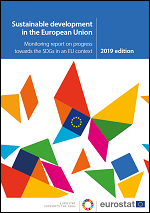
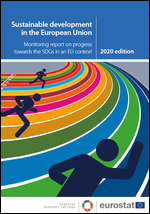
Aktualizacja zakładki Publikacje

diff --git a/_layouts/lay_api.html b/_layouts/lay_api.html
@@ -9,7 +9,7 @@ layout: page
   <h2 style="margin-top: 30px;">Application programming interface (API)</h2>
   <p>The SDG API (Application Programming Interface) allows to browse and download for further processing the full range of data and metadata for global and national indicators monitoring the Sustainable Development Goals (SDGs) of the 2030 Agenda in Poland.
     <br />The data is made available through REST API in JSON format.
-    The list below presents vailable web services provided as part of the API.
+    The list below presents available web services provided as part of the API.
   </p>
 {% else %}
   <h2 style="margin-top: 30px;">Interfejs programistyczny aplikacji (API)</h2>

diff --git a/_layouts/lay_api_custodian.html b/_layouts/lay_api_custodian.html
@@ -9,7 +9,7 @@ layout: page
   <h2 style="margin-top: 30px;">Application programming interface (API)</h2>
   <p>The SDG API (Application Programming Interface) allows to browse and download for further processing the full range of data and metadata for global and national indicators monitoring the Sustainable Development Goals (SDGs) of the 2030 Agenda in Poland.
     <br />The data is made available through REST API in JSON format.
-    The list below presents vailable web services provided as part of the API.
+    The list below presents available web services provided as part of the API.
   </p>
 {% else %}
   <h2 style="margin-top: 30px;">Interfejs programistyczny aplikacji (API)</h2>

diff --git a/en/o_sdg.md b/en/o_sdg.md
@@ -143,27 +143,27 @@ Poland presented its achievements at HLPF for the first time.
   <p><b>SDGs & me</b></p>
 
   <p>A new digital publication by Eurostat on the 2030 Agenda’s goals reaches out to a wide range of readers. Its intuitive nature and attractive layout encourage each and everyone to take a glance at the SDGs from the statistical point of view. <em>SDGs & me</em> presents progress towards 17 goals in the EU and its member countries by means of interactive visualizations. In order to assess progress in achieving the global goals, metrics from Eurostat’s SDG indicator set were used. The publication enables comparison of progress towards the SDGs between the countries and against the EU. It also makes it possible to guess trends for indicator values before their presentation on the chart.</p>
-
-  <p><b>Archive:</b></p>
-  <p><a target="_blank" href="https://ec.europa.eu/eurostat/cache/digpub/sdgs_2018/">SDGs & me – 2018 edition</a></p>
+  <br>
+  <br>
 
 
   <hr>
   <div class="image-wrapper">
-  <a target="_blank" href="https://ec.europa.eu/eurostat/documents/3217494/9940483/KS-02-19-165-EN-N.pdf/1965d8f5-4532-49f9-98ca-5334b0652820"><img src="{{ site.baseurl }}/assets/img/publikacje/4_sdg_in_ue.png" align="center" alt="GUS" border="0"/></a>
+  <a target="_blank" href="https://ec.europa.eu/eurostat/documents/3217494/11011074/KS-02-20-202-EN-N.pdf/334a8cfe-636a-bb8a-294a-73a052882f7f"><img src="{{ site.baseurl }}/assets/img/publikacje/4_sdg_in_ue.png" align="center" alt="GUS" border="0"/></a>
   </div>
   <p><b>Sustainable development in the European Union — Monitoring report on progress towards the SDGs in an EU context</b></p>
 
   <p>The publication, issued in 2017 by Eurostat, is a monitoring report on the progress towards achieving the Sustainable Development Goals in an EU context. This report describes progress made using a set of 100 indicators that are structured along the 17 SDGs. Two periods are considered: the short term, accounting for progress over the past five years, and the long term, looking at the trends over the last 15 years.
   <br><br><br></p>
   <p><b>Archive:</b></p>
-  <p><a target="_blank" href="https://ec.europa.eu/eurostat/web/products-statistical-books/-/KS-01-18-656">Monitoring report on progress towards the SDGs in an EU context</a></p>  
-  <p><a target="_blank" href="https://ec.europa.eu/eurostat/web/products-statistical-books/-/KS-04-17-780?inheritRedirect=true&redirect=%2Feurostat%2Fweb%2Fsdi%2Fpublications">Monitoring report on progress towards the SDGs in an EU context</a></p>  
+  <p><a target="_blank" href="https://ec.europa.eu/eurostat/documents/3217494/9940483/KS-02-19-165-EN-N.pdf/1965d8f5-4532-49f9-98ca-5334b0652820">Monitoring report on progress towards the SDGs in an EU context - 2019 edition</a></p>  
+  <p><a target="_blank" href="https://ec.europa.eu/eurostat/web/products-statistical-books/-/KS-01-18-656">Monitoring report on progress towards the SDGs in an EU context - 2018 edition</a></p>  
+  <p><a target="_blank" href="https://ec.europa.eu/eurostat/web/products-statistical-books/-/KS-04-17-780?inheritRedirect=true&redirect=%2Feurostat%2Fweb%2Fsdi%2Fpublications">Monitoring report on progress towards the SDGs in an EU context - 2017 edition</a></p>  
 
 
   <hr>
   <div class="image-wrapper">
-      <a target="_blank" href="https://ec.europa.eu/eurostat/documents/4031688/9925908/KS-02-19-166-EN-N.pdf/e985fa37-b510-4cae-b30e-c247989163d9"><img src="{{ site.baseurl }}/assets/img/publikacje/5_sdg_in_ue.png" align="center" alt="GUS" border="0"/></a>
+      <a target="_blank" href="https://ec.europa.eu/eurostat/documents/4031688/11010788/KS-01-20-192-EN-N.pdf/ae63aff0-a6f3-1d47-da83-c6886b9daaab"><img src="{{ site.baseurl }}/assets/img/publikacje/5_sdg_in_ue.png" align="center" alt="GUS" border="0"/></a>
   </div>
   <p><b>Sustainable development in the European Union – Overview of progress towards the SDGs in an EU context</b></p>
 
@@ -171,8 +171,9 @@ Poland presented its achievements at HLPF for the first time.
 
   <br><br><br></p>
   <p><b>Archive:</b></p>
-  <p><a target="_blank" href="https://ec.europa.eu/eurostat/en/web/products-catalogues/-/KS-02-18-827">Sustainable development in the European Union – Overview of progress towards the SDGs in an EU context</a></p>
-  <p><a target="_blank" href="https://ec.europa.eu/eurostat/web/products-catalogues/-/KS-01-17-796?inheritRedirect=true&redirect=%2Feurostat%2Fweb%2Fsdi%2Fpublications">Sustainable development in the European Union – Overview of progress towards the SDGs in an EU context</a></p>
+  <p><a target="_blank" href="https://ec.europa.eu/eurostat/documents/4031688/9925908/KS-02-19-166-EN-N.pdf/e985fa37-b510-4cae-b30e-c247989163d9">Sustainable development in the European Union – Overview of progress towards the SDGs in an EU context - 2019 edition</a></p>
+  <p><a target="_blank" href="https://ec.europa.eu/eurostat/en/web/products-catalogues/-/KS-02-18-827">Sustainable development in the European Union – Overview of progress towards the SDGs in an EU context - 2018 edition</a></p>
+  <p><a target="_blank" href="https://ec.europa.eu/eurostat/web/products-catalogues/-/KS-01-17-796?inheritRedirect=true&redirect=%2Feurostat%2Fweb%2Fsdi%2Fpublications">Sustainable development in the European Union – Overview of progress towards the SDGs in an EU context - 2017 edition</a></p>
 
   <hr>
   <div class="image-wrapper">

diff --git a/o_sdg.md b/o_sdg.md
@@ -138,27 +138,26 @@ Krajowe dobrowolne przeglądy (Voluntary National Review) są organizowane coroc
   <p><b>SDGs & me</b></p>
 
   <p>Nowa cyfrowa publikacja Eurostatu nt. celów Agendy 2030 adresowana jest do szerokiego grona odbiorców. Jej intuicyjny charakter i atrakcyjna forma zachęcą każdego do spojrzenia na SDGs z punktu widzenia statystyki. <em>SDGs & me</em> prezentuje postępy całej UE oraz poszczególnych krajów członkowskich we wdrażaniu 17 celów za pomocą interaktywnych wizualizacji. Do oceny realizacji celów globalnych wykorzystano wybrane wskaźniki SDG z zestawu opracowanego przez Eurostat dla Unii Europejskiej. Publikacja umożliwia porównywanie postępów w osiąganiu SDGs między krajami oraz na tle UE. Pozwala także na prognozowanie trendów dla wybranych mierników przed ich zaprezentowaniem na wykresie.</p>
-
-  <p><b>Archiwum:</b></p>
-  <p><a target="_blank" href="https://ec.europa.eu/eurostat/cache/digpub/sdgs/">SDGs & me – Edycja 2018 </a></p>
+  <br>
 
 
   <hr>
   <div class="image-wrapper">
-      <a target="_blank" href="https://ec.europa.eu/eurostat/documents/3217494/9940483/KS-02-19-165-EN-N.pdf/1965d8f5-4532-49f9-98ca-5334b0652820"><img src="{{ site.baseurl }}/assets/img/publikacje/4_sdg_in_ue.png" align="center" alt="GUS" border="0"/></a>
+      <a target="_blank" href="https://ec.europa.eu/eurostat/documents/3217494/11011074/KS-02-20-202-EN-N.pdf/334a8cfe-636a-bb8a-294a-73a052882f7f"><img src="{{ site.baseurl }}/assets/img/publikacje/4_sdg_in_ue.png" align="center" alt="GUS" border="0"/></a>
   </div>
   <p><b>Sustainable development in the European Union — Monitoring report on progress towards the SDGs in an EU context</b></p>
 
   <p>Wydawana od 2017 r. publikacja Eurostatu będąca raportem monitorującym postęp w kierunku osiągnięcia Celów Zrównoważonego Rozwoju w kontekście UE. Raport opisuje i analizuje dokonany postęp przy wykorzystaniu zestawu 100 wskaźników, przyporządkowanych do poszczególnych celów SDG. Analizie poddane są dwa okresy: krótki, uwzględniający postęp dokonany w ciągu ostatnich 5 lat oraz długi, obejmujący tendencje z ostatnich 15 lat.
   <br><br><br></p>
   <p><b>Archiwum:</b></p>
+  <p><a target="_blank" href="https://ec.europa.eu/eurostat/documents/3217494/9940483/KS-02-19-165-EN-N.pdf/1965d8f5-4532-49f9-98ca-5334b0652820">Monitoring report on progress towards the SDGs in an EU context – Edycja 2019</a></p>
   <p><a target="_blank" href="https://ec.europa.eu/eurostat/web/products-statistical-books/-/KS-01-18-656">Monitoring report on progress towards the SDGs in an EU context – Edycja 2018</a></p>
   <p><a target="_blank" href="https://ec.europa.eu/eurostat/web/products-statistical-books/-/KS-04-17-780?inheritRedirect=true&redirect=%2Feurostat%2Fweb%2Fsdi%2Fpublications">Monitoring report on progress towards the SDGs in an EU context – Edycja 2017</a></p>  
 
 
   <hr>
   <div class="image-wrapper">
-      <a target="_blank" href="https://ec.europa.eu/eurostat/documents/4031688/9925908/KS-02-19-166-EN-N.pdf/e985fa37-b510-4cae-b30e-c247989163d9"><img src="{{ site.baseurl }}/assets/img/publikacje/5_sdg_in_ue.png" align="center" alt="GUS" border="0"/></a>
+      <a target="_blank" href="https://ec.europa.eu/eurostat/documents/4031688/11010788/KS-01-20-192-EN-N.pdf/ae63aff0-a6f3-1d47-da83-c6886b9daaab"><img src="{{ site.baseurl }}/assets/img/publikacje/5_sdg_in_ue.png" align="center" alt="GUS" border="0"/></a>
   </div>
   <p><b>Sustainable development in the European Union – Overview of progress towards the SDGs in an EU context</b></p>
 
@@ -166,6 +165,7 @@ Krajowe dobrowolne przeglądy (Voluntary National Review) są organizowane coroc
 
   <br><br><br></p>
   <p><b>Archiwum:</b></p>
+  <p><a target="_blank" href="https://ec.europa.eu/eurostat/documents/4031688/9925908/KS-02-19-166-EN-N.pdf/e985fa37-b510-4cae-b30e-c247989163d9">Sustainable development in the European Union – Overview of progress towards the SDGs in an EU context – Edycja 2019</a></p>
   <p><a target="_blank" href="https://ec.europa.eu/eurostat/en/web/products-catalogues/-/KS-02-18-827">Sustainable development in the European Union – Overview of progress towards the SDGs in an EU context – Edycja 2018</a></p>
   <p><a target="_blank" href="https://ec.europa.eu/eurostat/web/products-catalogues/-/KS-01-17-796?inheritRedirect=true&redirect=%2Feurostat%2Fweb%2Fsdi%2Fpublications">Sustainable development in the European Union – Overview of progress towards the SDGs in an EU context – Edycja 2017</a></p>
 
